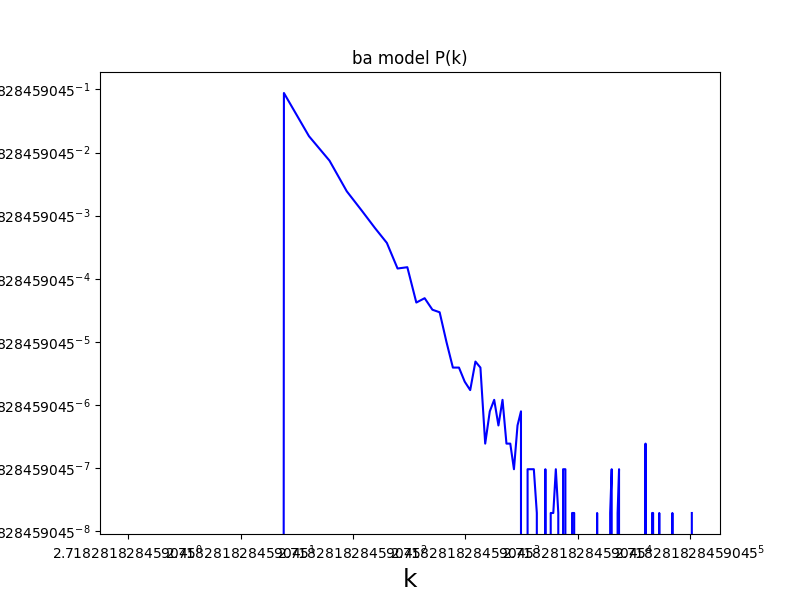
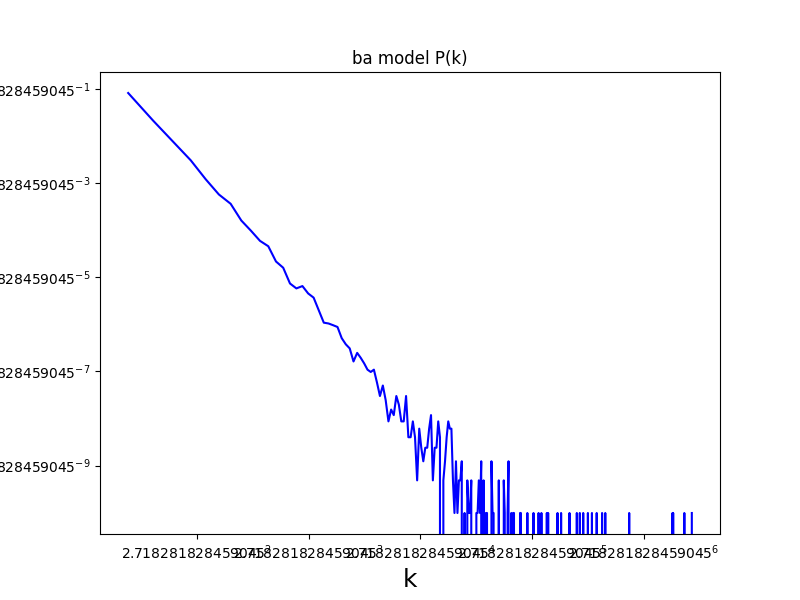
3 10

diff --git a/Networks3/ba.py b/Networks3/ba.py
@@ -108,19 +108,21 @@ def run_ba_model(size: int, kernel_size: int):
     max_k: int = list_degrees[-1]
     min_k: int = list_degrees[0]
 
-    ks: list[int] = [0] * (max_k + 1)
+    ks: list[int] = [0] * (max_k - min_k + 1)
 
-    pks: list[float] = [0.0] * (max_k + 1)
+    pks: list[float] = [0.0] * (max_k - min_k + 1)
 
     degrees_count: int = sum(dict_degrees.values())
 
-    for k in range(max_k + 1):
+    for k in range(min_k, max_k + 1):
         count_k: int = dict_degrees[k] if k in dict_degrees else 0
 
         pk: float = count_k / degrees_count if degrees_count > 0 else 0.0
 
-        ks[k] = k
-        pks[k] = pk
+        index_k: int = k - min_k
+
+        ks[index_k] = k
+        pks[index_k] = pk
 
     plt.figure(figsize=(8, 6))
 
@@ -152,6 +154,64 @@ def run_ba_model(size: int, kernel_size: int):
 
         node_indices[i] = i
         ks[i] = k_i
+
+    diff: int = max_k - min_k
+
+    n: int = 15
+
+    ratio: float = max_k / min_k
+
+    exp_n: float = 1/float(n)
+
+    alpha: float = ratio ** exp_n
+
+    print(f"alpha={alpha}")
+
+    bins: list[tuple[float, int]] = [[]] * (n + 1)
+
+    for i in range(n + 1):
+        threshold: float = min_k * (alpha ** i)
+
+        print(f"threshold[{i}]={threshold}")
+
+        bins[i] = (threshold, 0)
+
+    for node in list_nodes:
+        k_i: int = len(node.neighbors)
+        
+        ratio_i: float = k_i / min_k
+
+        log_ratio_i: float = math.log(ratio_i, alpha)
+
+        index_bin: int = int(log_ratio_i)
+
+        if index_bin < len(bins):
+            tup: tuple[float, int] = bins[index_bin]
+
+            bins[index_bin] = (tup[0], tup[1] + 1)
+        else:
+            print("no bin found!")
+            return
+        
+    bin_densities: list[float] = [0.0] * len(bins)
+
+    for i in range(len(bins)):
+        tup: tuple[float, int] = bins[i]
+        next_tup: tuple[float, int] = None
+
+        if i < len(bins) - 1:
+            next_tup = bins[i + 1]
+
+        k_i: float = tup[0]
+        k_next: float = next_tup[0] if next_tup is not None else min_k * (alpha ** (n + 1))
+
+        bin_n: int = tup[1]
+
+        width = k_next - k_i
+
+        bin_densities[i] = bin_n / width if width > 0.0 else 0.0
+        
+    k_bins: list[tuple] = [0.0] * len(bins)
 
     ratio: float = max_k / min_k if min_k > 0 else 0.0
     square_root_size: float = math.sqrt(len(list_nodes))
@@ -203,4 +263,4 @@ def create_kernel(kernel_size: int) -> list[Node]:
 
     return list_of_nodes
 
-run_ba_model(2222, 4)
+run_ba_model(22222, 4)
